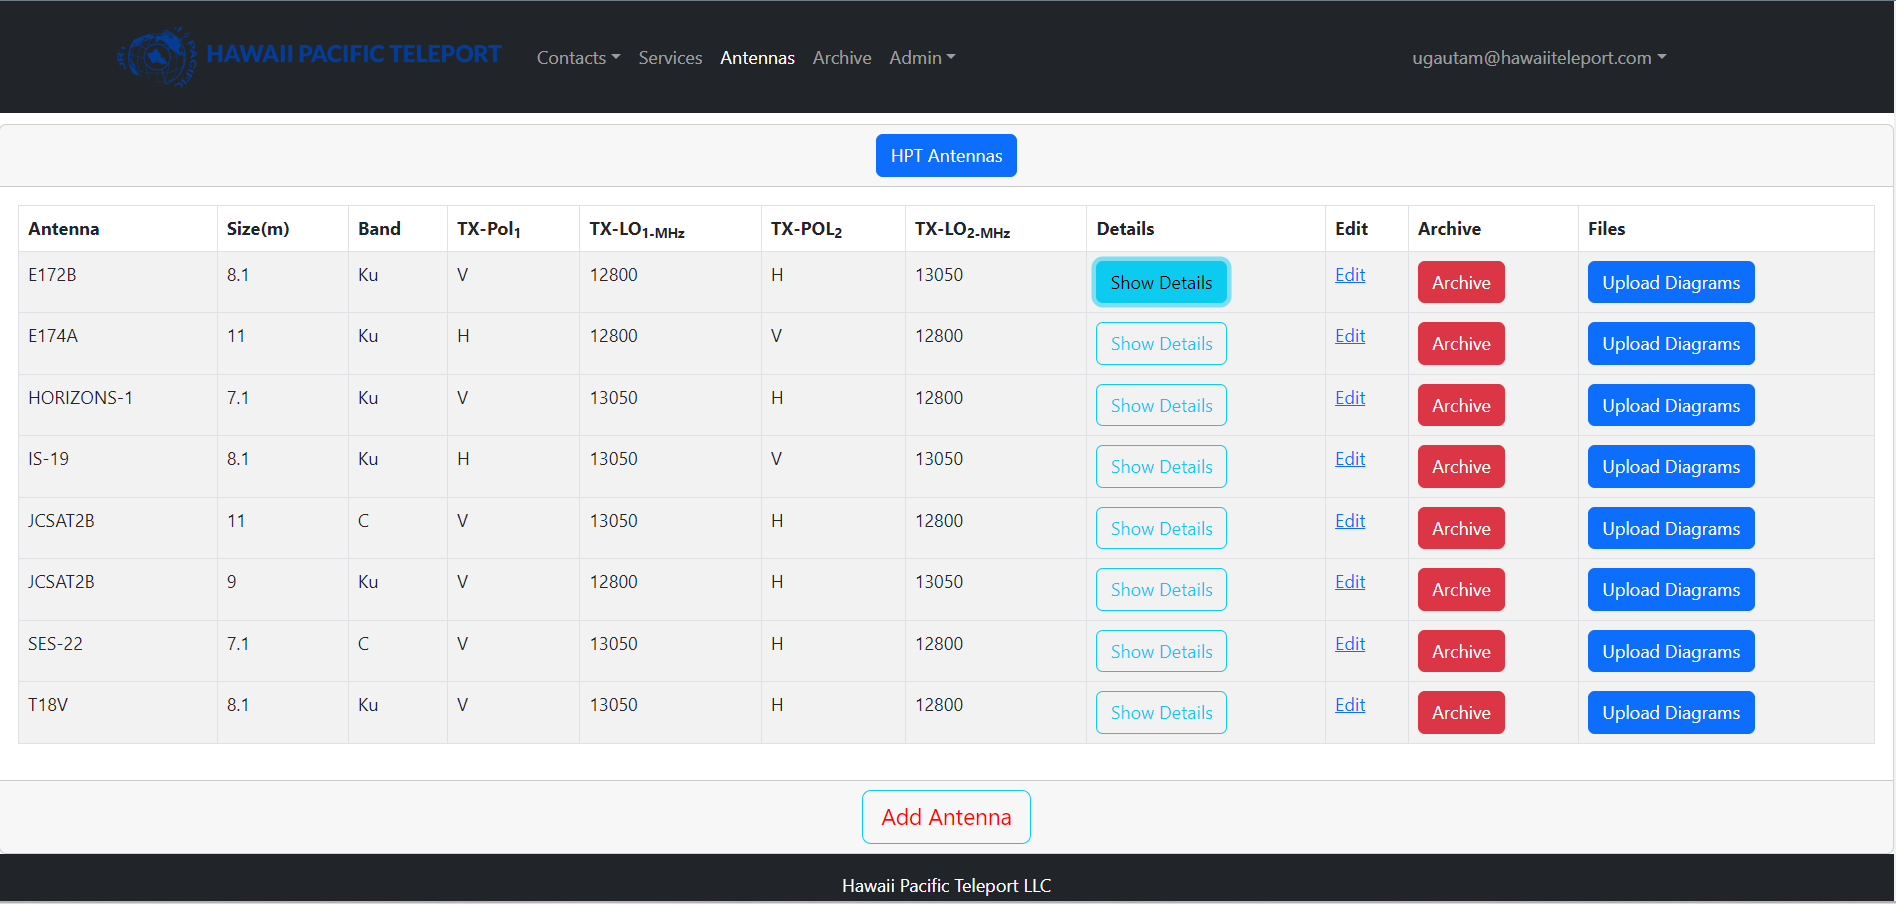
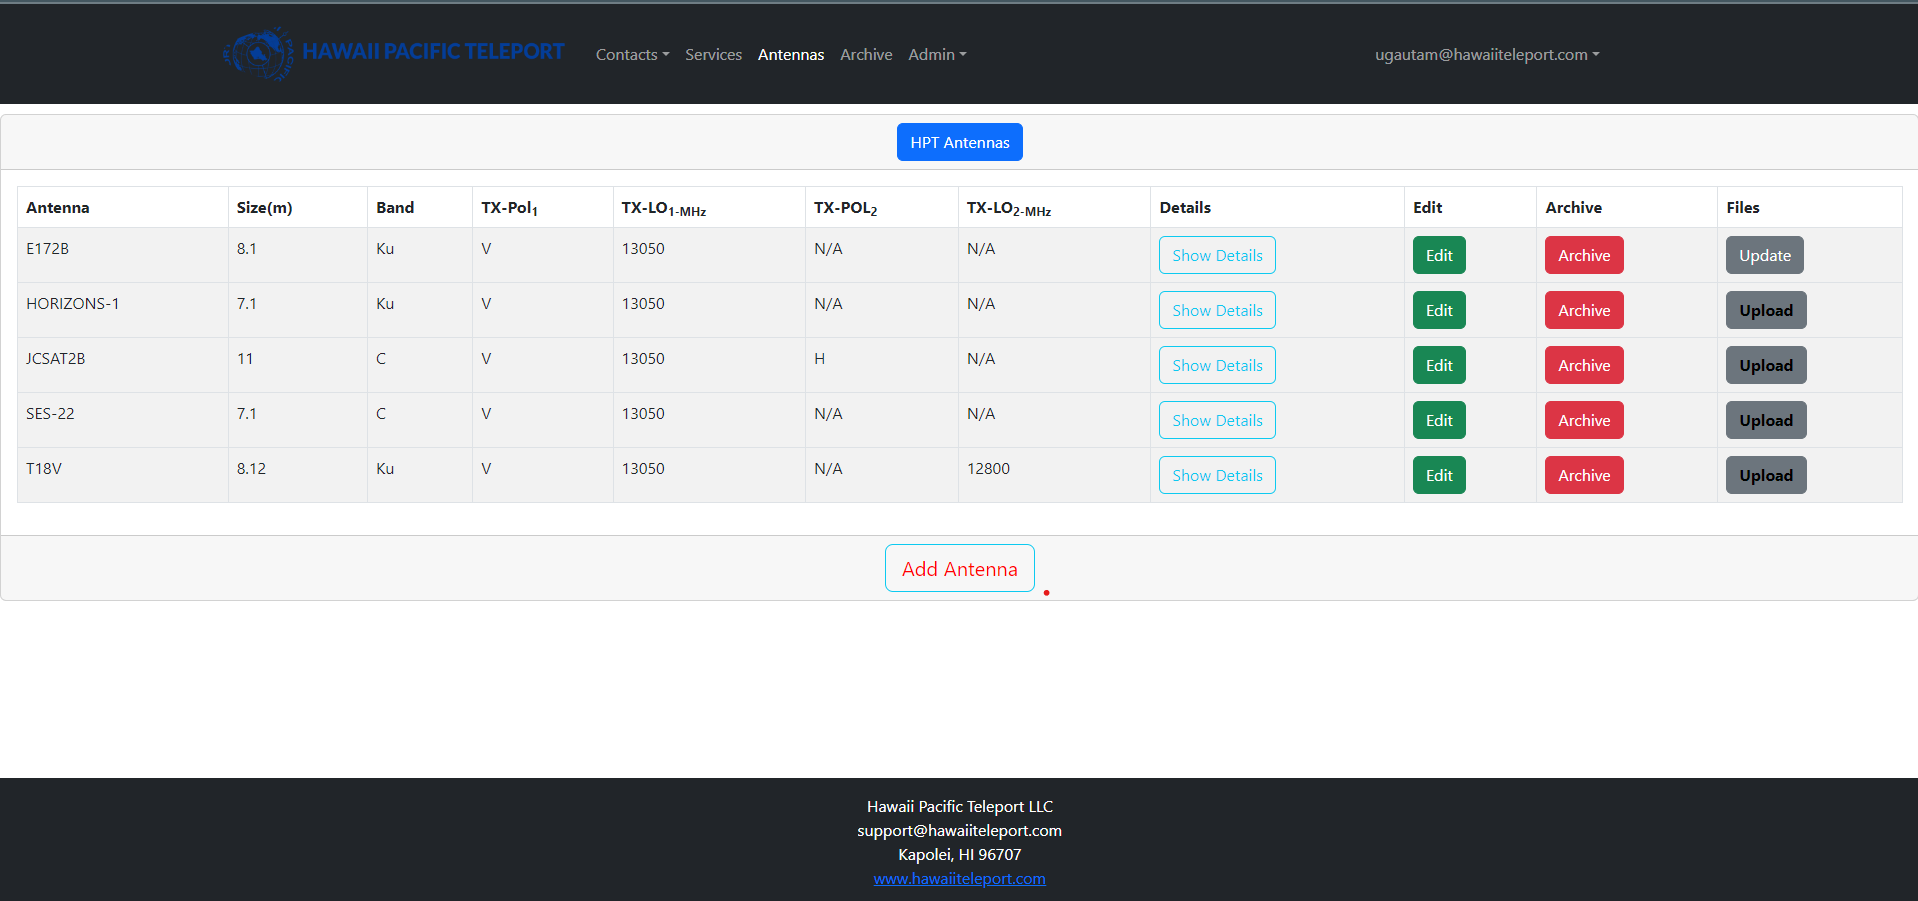
upload new diagrams

diff --git a/index.md b/index.md
@@ -116,6 +116,8 @@ Select the "Antenna" button on the navigation bar to view, edit, and archive exi
 
 ![screenshot of the antenna page](doc/newaddantennas.png)
 
+**_Click on Upload to add new files, or Update to modify existing files._**
+
 To add a new antenna, navigate to the "Antenna" page and select the "Add Antenna" button or access it from the "Admin" dropdown in the navigation bar.
 
 ![screenshot of the antenna page](doc/addantenna-1.png)
